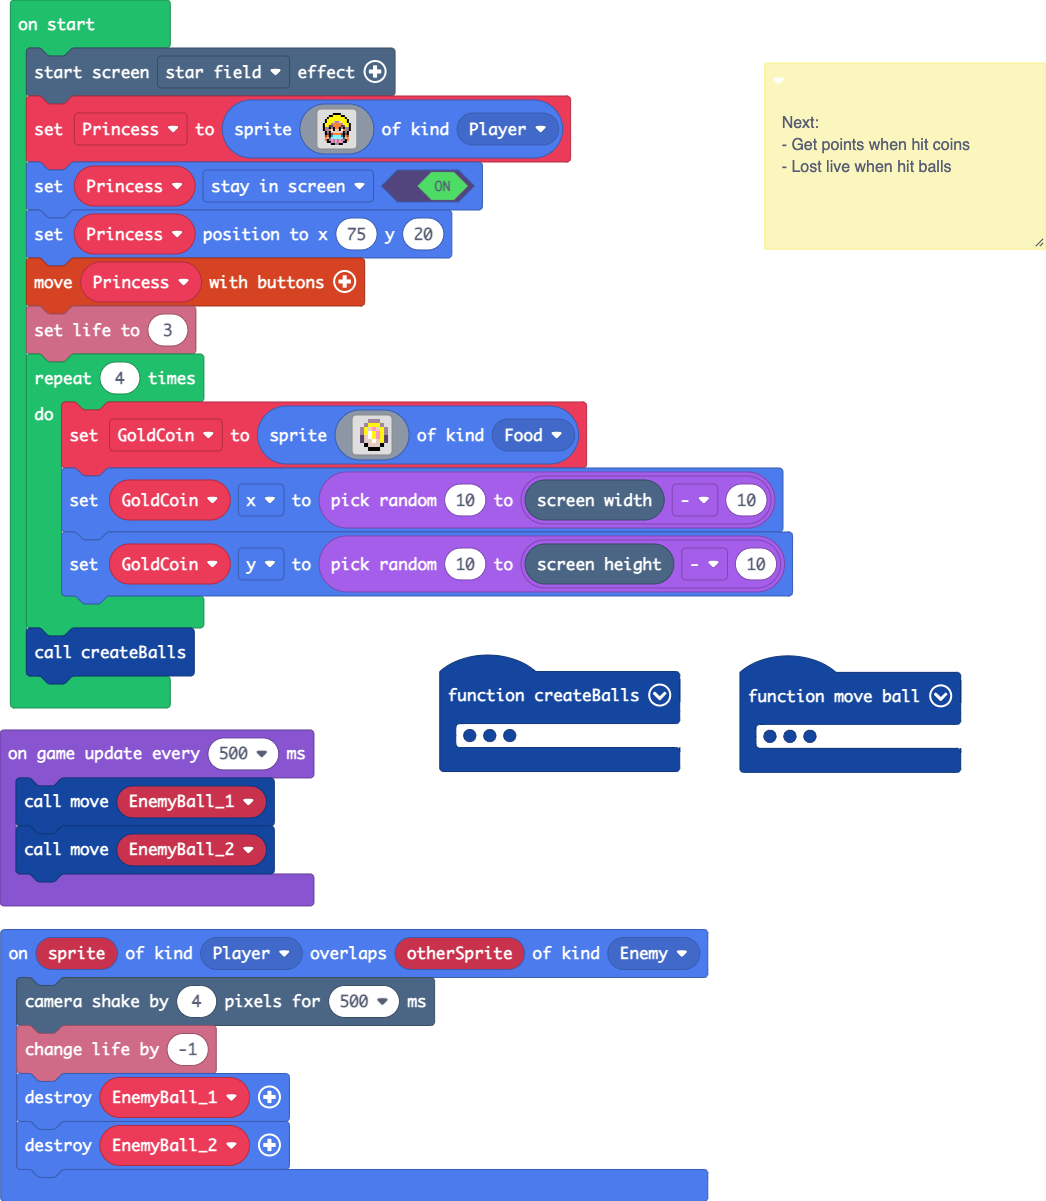
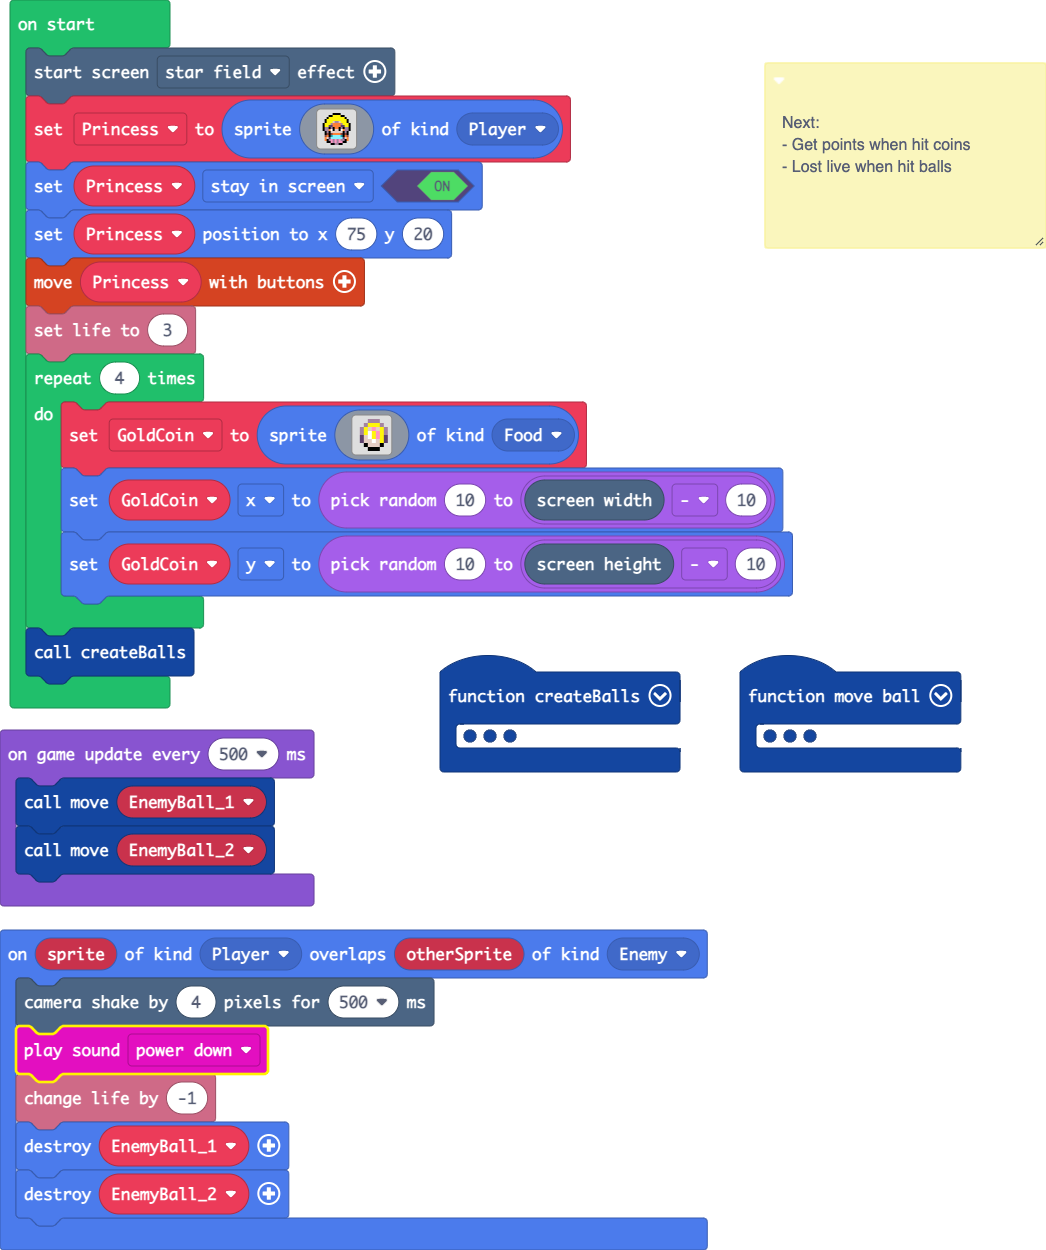
Add sound to ball collision

Changed region(s): [[0.0, 0.0, 0.9178, 0.9858], [0.7342, 0.0924, 0.9178, 0.154], [0.7342, 0.1848, 1.0, 0.2157]]

diff --git a/main.ts b/main.ts
@@ -74,6 +74,7 @@ function move (ball: Sprite) {
 }
 sprites.onOverlap(SpriteKind.Player, SpriteKind.Enemy, function (sprite, otherSprite) {
     scene.cameraShake(4, 500)
+    music.powerDown.play()
     info.changeLifeBy(-1)
     EnemyBall_1.destroy()
     EnemyBall_2.destroy()
